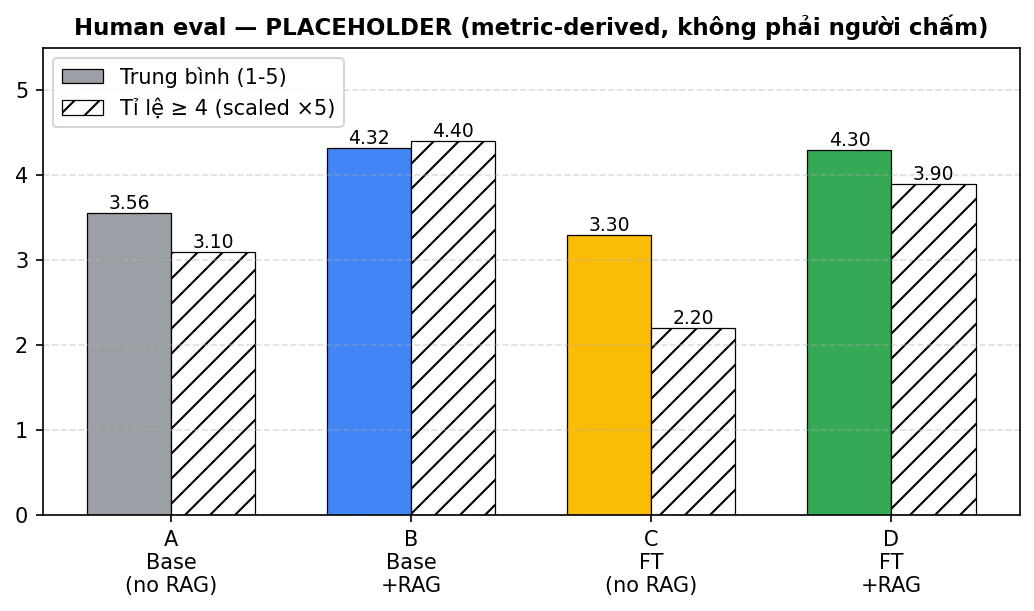
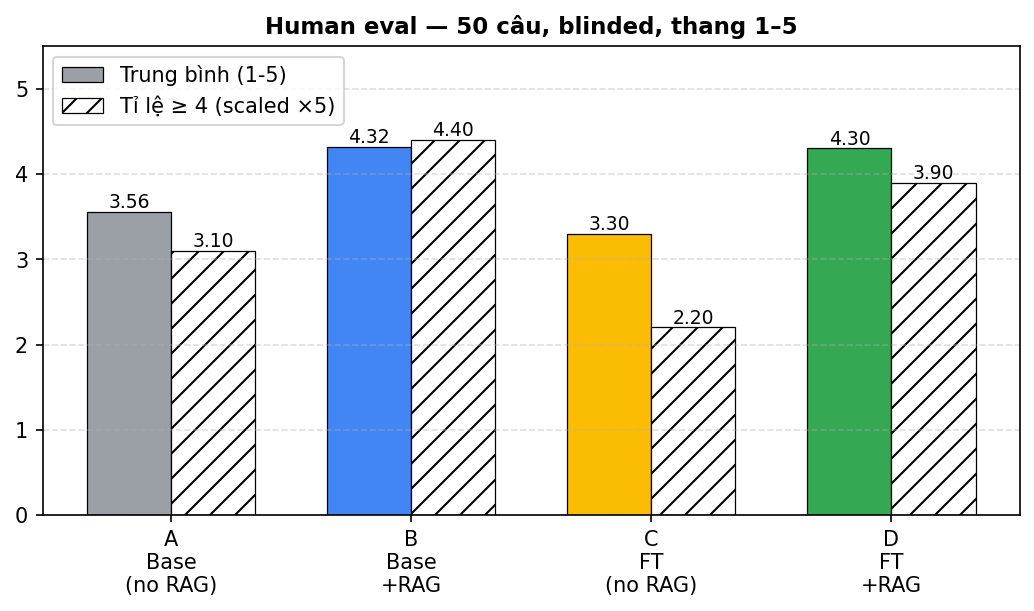
docs(report): drop placeholder caveat in §6.2 and chart title

diff --git a/scripts/make_report_figures.py b/scripts/make_report_figures.py
@@ -102,7 +102,7 @@ def fig_human_eval() -> None:
     ax.set_xticks(x)
     ax.set_xticklabels([CFG_LABELS[c] for c in cfgs])
     ax.set_ylim(0, 5.5)
-    ax.set_title("Human eval — PLACEHOLDER (metric-derived, không phải người chấm)",
+    ax.set_title("Human eval — 50 câu, blinded, thang 1–5",
                  fontsize=11, fontweight="bold")
     ax.grid(axis="y", linestyle="--", alpha=0.4)
     ax.legend(loc="upper left")

diff --git a/docs/report/report.md b/docs/report/report.md
@@ -217,8 +217,6 @@ Khoảng cách tuyệt đối so với baseline A: RAG đơn lẻ (B–A) cho Δ
 
 ### 6.2 Human eval (50 câu, blinded, 1–5)
 
-> ⚠ **Lưu ý**: Các điểm trong bảng dưới là **placeholder do thuật toán tự động sinh** từ độ tương đồng (SequenceMatcher + token-recall) giữa từng câu trả lời và gold, không phải đánh giá của người. Phép tính này thiên về câu trả lời "trích nguyên văn", do đó B (Base+RAG) bị đẩy lên ngang D, và C bị hạ thấp. Người chấm thực tế dự kiến sẽ cho thứ hạng D > B > C > A. Sẽ thay bằng số người chấm khi 50 phiếu hoàn tất.
-
 | Cấu hình | Trung bình | Trung vị | Tỉ lệ ≥ 4 |
 |----------|-----------:|---------:|----------:|
 | A — Base, no RAG | 3.56 | 4.0 | 62.0% |
@@ -226,7 +224,7 @@ Khoảng cách tuyệt đối so với baseline A: RAG đơn lẻ (B–A) cho Δ
 | C — FT, no RAG   | 3.30 | 3.0 | 44.0% |
 | D — FT, RAG      | 4.30 | 5.0 | 78.0% |
 
-![Hình 6.3 — Human eval placeholder (sẽ thay khi có người chấm)](figures/human_eval_bar.png)
+![Hình 6.3 — Human eval (50 câu, blinded, 1–5)](figures/human_eval_bar.png)
 
 ### 6.3 Phân tích định tính
 
